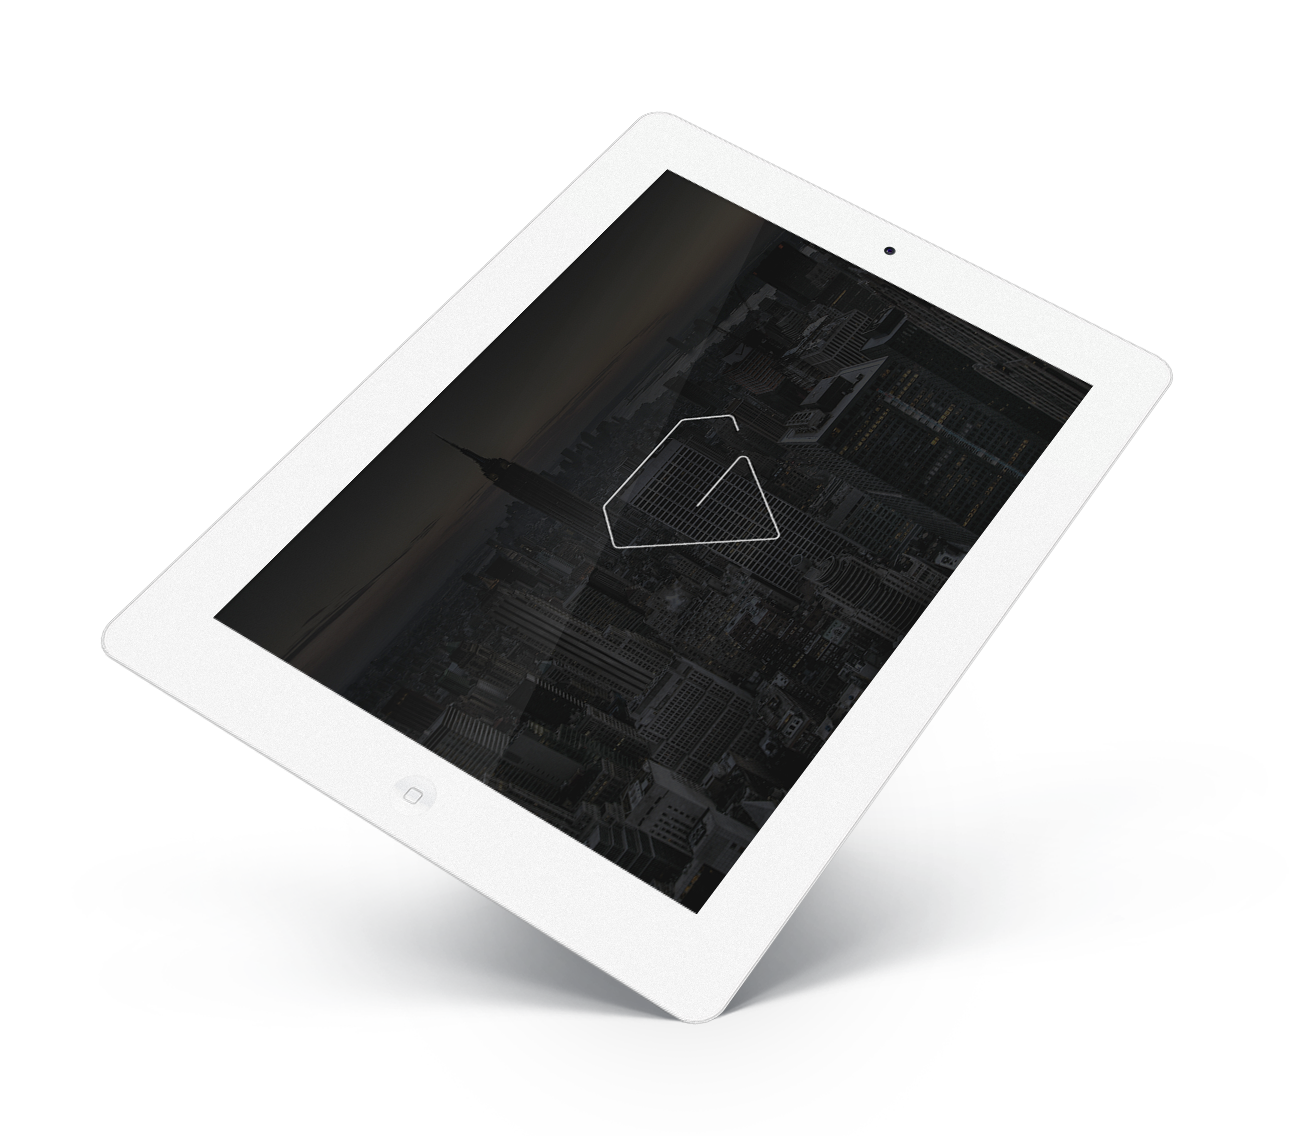
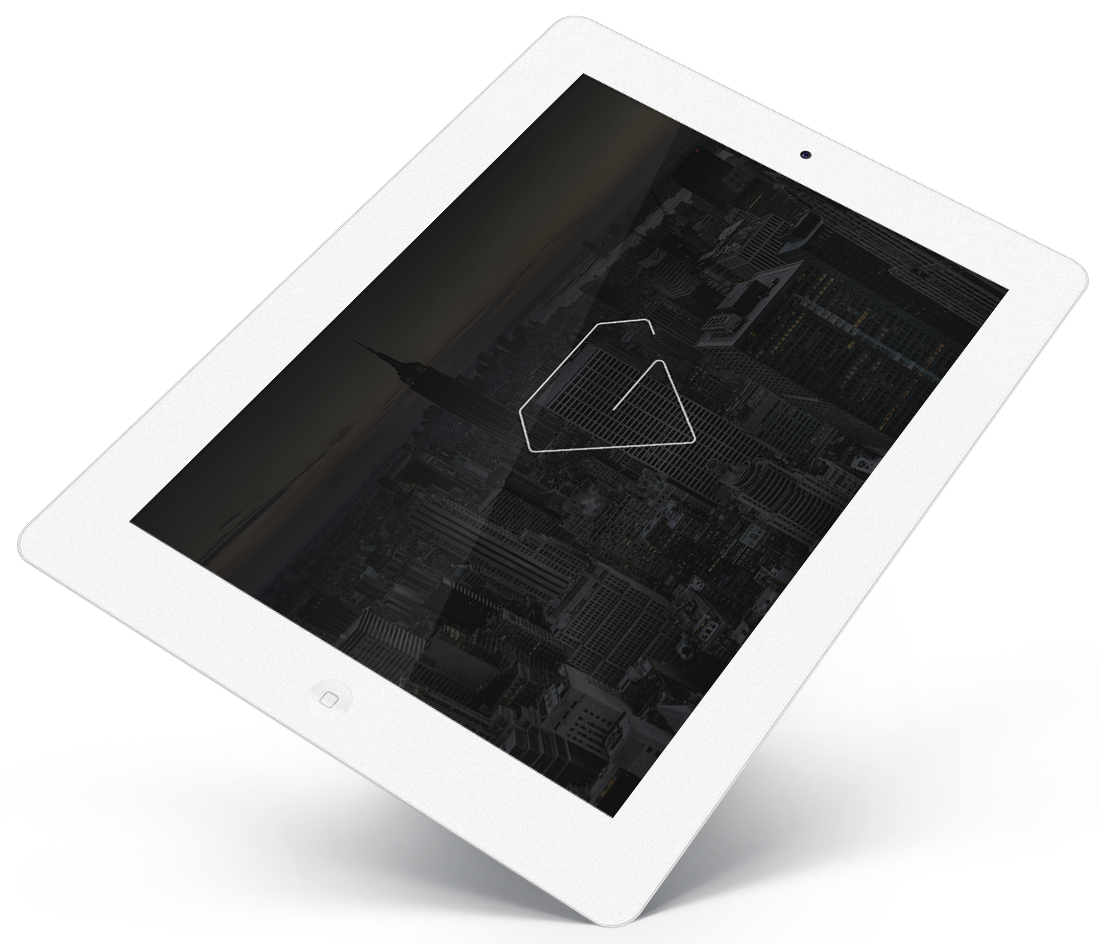
css changes

diff --git a/css/index.css b/css/index.css
@@ -215,7 +215,7 @@ section:not(#intro) {
 }
 
 #devices-img {
-    width: 60%;
+    width: 50%;
 }
 
 #intro #items-container {
